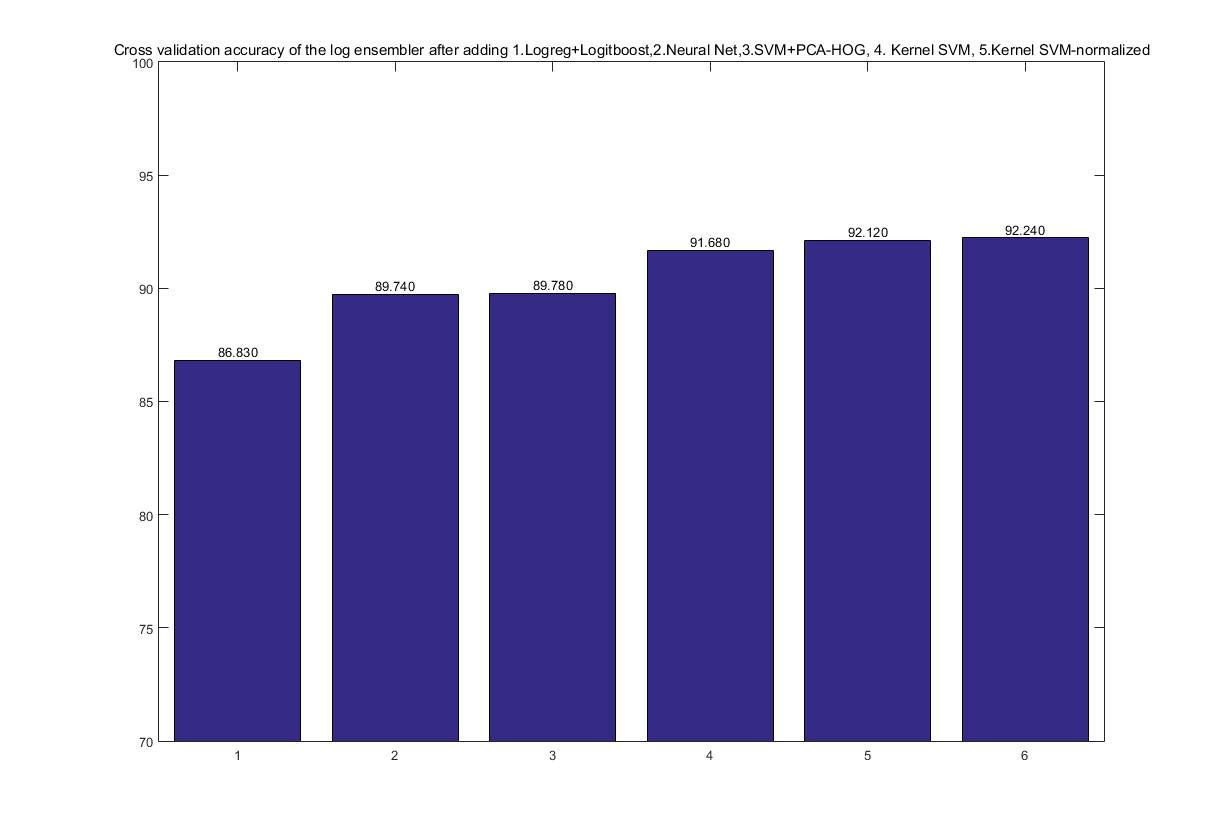
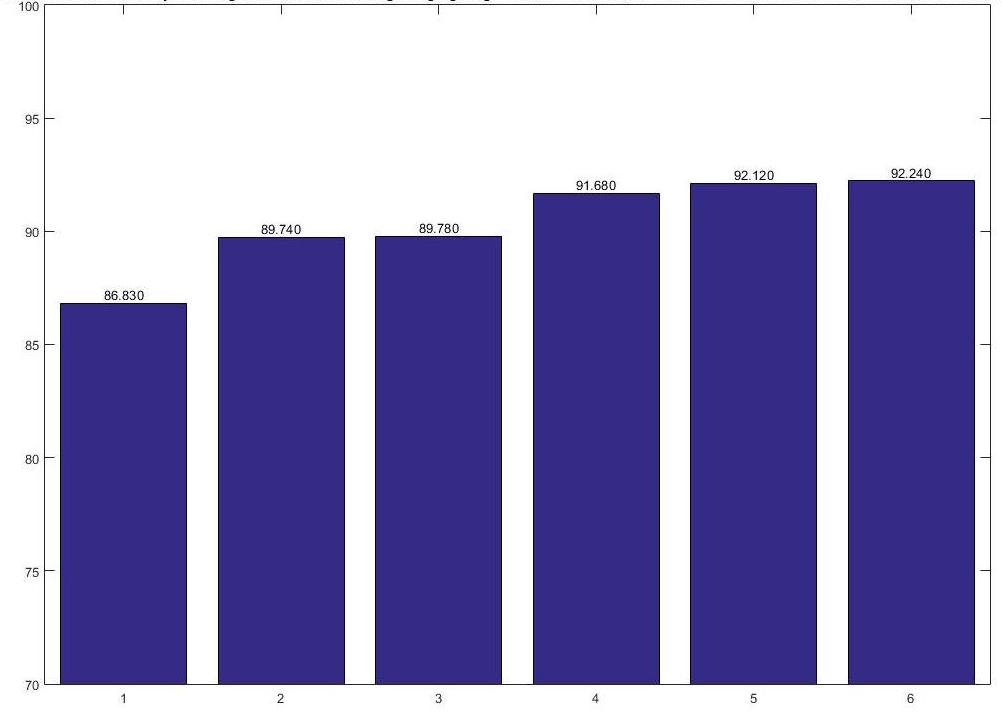
update final report

diff --git a/FinalReportRevised/subsections/methods_results.tex b/FinalReportRevised/subsections/methods_results.tex
@@ -7,13 +7,13 @@ In this section, we report the results of multiple methods we tried for feature 
 To extract informative features from the raw word and image features,  we first ranked words features by based on their Information Gain (IG) and Bi-normal Separation (BNS), below is the comparison of the top 30 words selected by IG and BNS.   
 \begin{center}
 \includegraphics[scale=0.30]{topwords.jpg}
-    \end{center}
+\end{center}
 Next we examine the frequency of the top 1000 words selected by IG and BNS. Each circle in the graph below represents one word.
 \begin{center}
     \fbox{\includegraphics[scale=0.40]{topwordsB.jpg}}   
-    % \hspace{30px}
     \fbox{\includegraphics[scale=0.40]{topwordsC.jpg}}
-    % \hspace{30px}
+    % \caption{}
+    % \label{IGBNS}
 \end{center}
 % \begin{center}
 % \includegraphics[scale=0.5]{topwordsB.jpg}
@@ -46,10 +46,16 @@ We first converted the profile images data into R, G, B and Grey-scale images.
 \subsubsection{Face Detection with Viola-Jones Algorithm}
 We extracted all the faces. We used matlab built-in Viola-Jones algorithm to do face detection on RGB images, which detected faces on 72\% of the profile pictures. All the following classifications over images were based on the faces detected. Later when ensemble, we only used samples with detected faces. For those samples without faces in them, we just set the output of the classifier as 0 (the output of the classifier is either positive or negative for male or female).
 \subsubsection{Logistic Regression with Eigen Faces}
-After extracted faces, we did PCA over grey-scale images, the visualization of the top principal components are shown in figure below. We put top PCs into logistic regression classifier and it yielded around 70\% accuracy over detected faces. \\
-\begin{center}
-\includegraphics[scale=0.5]{pca_faces}
-\end{center}
+After extracted faces, we did PCA over grey-scale images, the visualization of the top principal components are shown in figure below. We put top PCs into logistic regression classifier and it yielded around 70\% accuracy over detected faces. The visulization is shown in figure \ref{eigenfacesauto}\\
+\begin{figure}
+    \fbox{\includegraphics[scale=0.50]{pca_faces}}   
+    \fbox{\includegraphics[scale=0.30]{autoencoder.png}}
+    \caption{Visualization of Eigen Faces (left) and Auto-encoder (right)} 
+    \label{eigenfacesauto}
+\end{figure}
+% \begin{center}
+% \includegraphics[scale=0.5]{pca_faces}
+% \end{center}
 \subsubsection{HOG Features, Gaussian Pyramid, Eyes and Nose}
 We used Viola-Jones algorithm to detect and crop eyes and nose. After that, we extracted Gaussian Pyramid HOG features on faces, eyes and nose into 7020 feature vector. Classifying the features with logistic regression yielded 82\% accuracy by itself on 72\% detected faces. The ensemble with this classifier produced 91.9\% over all accuracy on the test set. 
 \subsubsection{SVM on PCA-ed HOG Features}
@@ -59,10 +65,8 @@ LBP works complementary with HOG features, we extracted spatial pyramid LBP feat
 
 \subsubsection{Auto-encoder}
 The Auto-encoder was employed for image dimensionality reduction on Grey-scale face images we detected and extracted. We experimented with various neural network settings and found the optimal number of hidden nodes is 100. We also set the learning rate to be 0.5, input zero-masked fraction to be 0.8, scaling-learning rate to be 0.95, non-sparsity penalty to be 0.1, and drop-out fraction to be 0.25. Our cross-validation using logistic regression shows over 75\% accuracy on the face-detected images.
-The visualization of the auto-encoder is shown below. 
-\begin{center}
-\includegraphics[scale=0.45]{autoencoder.png}
-\end{center}
+The visualization of the auto-encoder is shown in figure \ref{eigenfacesauto}. 
+
 \subsection{Ensemble Methods}
 \subsubsection{Stacking}
 We used stacking to ensemble our models to achieve better over all performance than any of the single models. First, we used 80\% of the training data to train all the single models including logistic regression, neural network, logitboost with feature selection, kernel SVM with feature selection, kernel SVM with normalization, SVM over PCA-ed HOG, SVM over PCA-ed LBP. And then, use those models to generate scores (raw outputs) for the rest 20\% data. Training a logistic regression model using the 20\% scores with labels yields a ensemble classifier. Finally, we use all the training data to re-train all the single models. Along with the ensemble classifier, we got our final model. 
@@ -75,35 +79,25 @@ Considering the time and space constraints, we finally submitted 5 models includ
 \subsubsection{LogitBoost and Feature Selection Using Information Gain}
 \label{logitboostFSIG}
  We want to use both words features and image features in order to enhance our accuracy, but we don't know which feature is most informative; therefore, we ranks all words and image features together using information gain and select the top features (In fact, by computing the information gain of image features, we found image feature 1 2 5 6 and 7 have roughly 0 information gain, but of course this does not mean all image features are useless).\\
-On the other hand, Logitboost can be seen as a convex optimization which combines Adaboost with the cost function of logistic regression. We experiment with Logitboost based on the following considerations.\\
+We experiment with Logitboost based on the following considerations.\\
 1. Words and the seven image features have different scales, we need a model that is scale invariant; boosting with decision stump trees in this case is a great choice.\\
 2. The cost function using logistic regression is suitable for binary classification, it is a convex problem and minimizes the binomial deviance and gives less weights to misclassified observations.\\
-By selecting the top 1000 features ranked by information gain and using 300 decision stump trees, we achieved an accuracy of 89.11 percent on the testing set.\\
-In our final submission, this model also serves as a major classifier that contributes to our ensemble method.\\
-Below is the cross validation accuracy plots (over 8 folds, with each curve represents one fold):\\
-\begin{center}
-\includegraphics[scale=0.3]{logitboost.jpg}
-\end{center}
+In our final submission, we selected the top 1000 features ranked by information gain and used 300 decision stump trees. This model serves as a major classifier that contributes to our ensemble method.\\
+
 \subsubsection{Kernel SVM for Ensemble}
 \label{kernelsvmensemble}
 The major motivation for introducing the Kernel SVM on words is to enhance our final ensemble accuracy. In order to do that, first we need to understand the contribution of each individual classifier to the ensemble. Below is the bar chart demonstration: (note when the ensembler only receives a single input, the outputs from Log-reg on words, our ensembler simply gives the predictions from the Log-reg classifier)\\
-% \begin{center}
-% \includegraphics[scale=0.4]{ens_add_acc.jpg}
-%     \end{center}
-%\begin{figure}[!ht]
-%  \caption{Ensemble with multiple classifiers}
-%  \centering
-%    \includegraphics[width=1\textwidth]{ens_add_accB.jpg}
-%\end{figure}
- \begin{center}
- \includegraphics[scale=0.40]{ens_add_accB.jpg}
-     \end{center}
-For our kernel SVM on words and image features, the Intersection Kernel is used for investigating the interactions between features (which we haven't done in the former models), and feature intersection might be a good way to obtain information about feature interactions.\\
+\begin{figure}
+\includegraphics[scale=0.40]{ens_add_accB.jpg}
+\caption{Cross-validation accuracy of the log ensembler after adding 1. Logistic Regression + LogitBoost 2.Neural Network 3.SVM+PCA-HOG 4.Kernel SVM 5.Kernel SVM-normalized}
+\label{finalmodels}
+\end{figure}
+\noindent For our kernel SVM on words and image features, the Intersection Kernel is used for investigating the interactions between features (which we haven't done in the former models), and feature intersection might be a good way to obtain information about feature interactions.\\
 We trained two Kernel-SVM on the top 1000  features based on information gain from the image feature and words training set: one on the original set; the other on the L2 normalized version of the data. We keep both models since in reality it's hard to say which model is less useful. Our goal is to enhance to the accuracy of our ensemble; therefore each model may give different but still useful information in different aspects. The bar plot below shows the improvement after adding the two models. (Note: all cross validation are performed on the same cross validation sets (5 sets in total)). This is the last ensemble combination we proposed one day before the submission deadline and unfortunately we haven't got a chance to obtain the accuracy on the testing dataset.\\
 % \begin{center}
 % \includegraphics[scale=0.40]{ens_add_accB.jpg}
 %     \end{center}
 
 \subsubsection{Bagging Logistic Regression on Raw HOG Features}
-To meet the time and space constraints of the competition, we dropped LBP model and and replaced the big SVM model with bagging logistic regression. Because the basis of PCs took 130Mb, which was too large for 50Mb space constraint, we didn't do PCA in the final submission either. Instead we used a bagging logistic regression with 6 logistic regression  models, with each of them trained on 60 percent randomly resampled data from the original dataset. Bagging is another ensembling method we experiemented for thie project. In short, it trans multiple models on different subsets of original dataset, by doing so the model variance and overfitting can be reduced. We investigated on the bagging of Naive Bayes and Logistic regression. Bagging doesn't show significant improvements on Naive Bayes (in the writer's optinion, this makes sense, as Naive Bayes is just a simple categorical statistical model, a sum of multiple such models can been viewed as a big Naive Bayes model), but for logistic regression, as shown in our project demo, it can increase the accuracy of logistic regression on words and image features from 86.83\% to 87.56\%, if correcly configured; on HOG features, it increases the cross validation accuracy from 78.53\% to 82.14\%.  After replacing SVM-HOG with baged logistic models, our cross validation accuracy dropped from 92.24\% to 91.36\%. The final model produced 91.04\% accuracy on validation set.
+To meet the time and space constraints of the competition, we dropped LBP model and and replaced the big SVM model with bagging logistic regression. Because the basis of PCs took 130Mb, which was too large for 50Mb space constraint, we didn't do PCA in the final submission either. Instead we used a bagging logistic regression with 6 logistic regression  models, with each of them trained on 60 percent randomly resampled data from the original dataset. Bagging is another ensembling method we experiemented for thie project. In short, it trans multiple models on different subsets of original dataset, by doing so the model variance and overfitting can be reduced. We investigated on the bagging of Naive Bayes and Logistic regression. Bagging doesn't show significant improvements on Naive Bayes (in the writer's optinion, this makes sense, as Naive Bayes is just a simple categorical statistical model, a sum of multiple such models can been viewed as a big Naive Bayes model), but for logistic regression, as shown in our project demo, it can increase the accuracy of logistic regression on words and image features from 86.83\% to 87.56\%, if correcly configured; on HOG features, it increases the cross validation accuracy from 78.53\% to 82.14\%.  After replacing SVM-HOG with baged logistic models, our cross validation accuracy dropped from 92.24\% to 91.36\%. The final model produced 91.04\% accuracy on validation set. The models' accuracies are shown in figure \ref{finalmodels}
 
